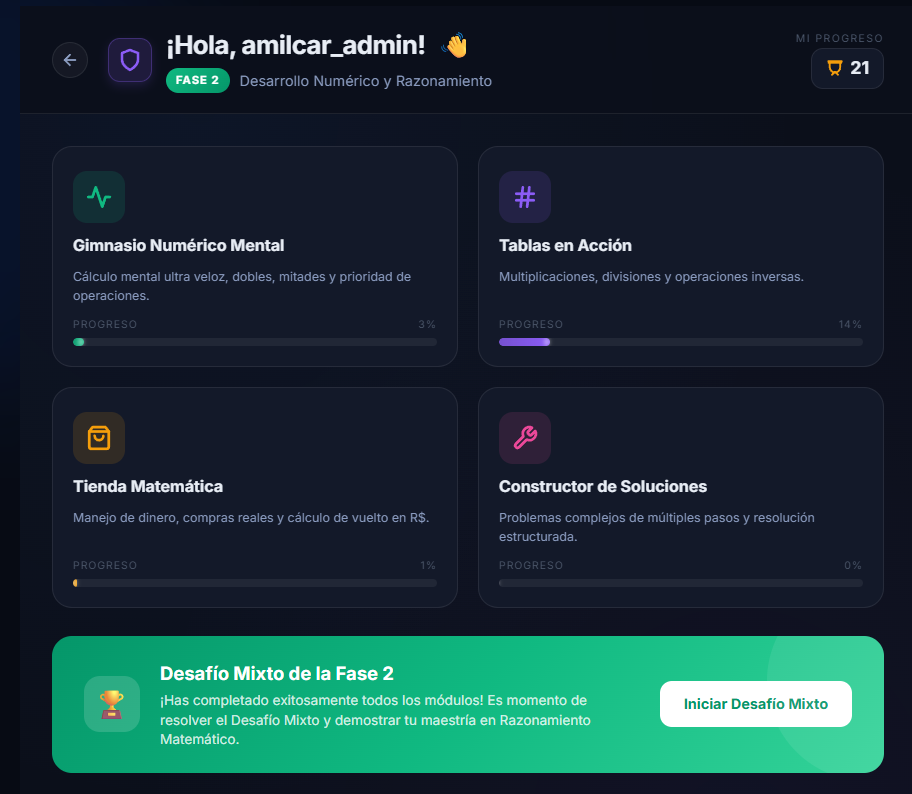
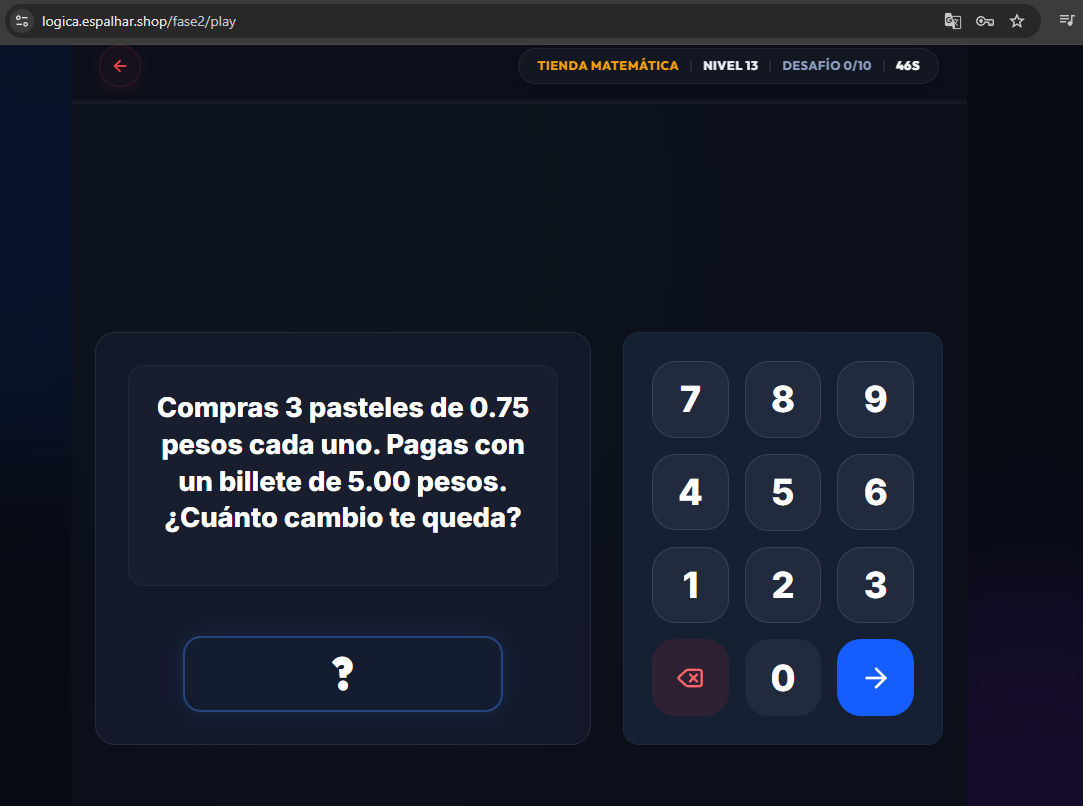
bufg interface

diff --git a/LogicaMath/frontend/components/fase2/Fase2MirrorModal.tsx b/LogicaMath/frontend/components/fase2/Fase2MirrorModal.tsx
@@ -201,28 +201,43 @@ export const Fase2MirrorModal: React.FC<Props> = ({
           </div>
 
           <div className="w-[280px] shrink-0">
-            <div className="grid grid-cols-3 gap-3 p-4 bg-white/5 rounded-[2rem]">
-              {[7, 8, 9, 4, 5, 6, 1, 2, 3, 'back', 0, 'go'].map((key) => {
-                if (key === 'back') return (
-                  <button key="back" onClick={handleBackspace} className="aspect-square rounded-2xl bg-red-500/10 text-red-500 flex items-center justify-center hover:bg-red-500/20 transition-colors">
-                    <Delete size={20} />
-                  </button>
-                );
-                if (key === 'go') return (
-                  <button key="go" onClick={handleSubmit} className="aspect-square rounded-2xl bg-blue-600 text-white flex items-center justify-center hover:bg-blue-700 transition-colors">
-                    <ArrowRight size={20} />
-                  </button>
-                );
-                return (
+            <div className="flex flex-col gap-3 p-4 bg-white/5 rounded-[2rem]">
+              <div className="grid grid-cols-3 gap-3">
+                {[7, 8, 9, 4, 5, 6, 1, 2, 3].map((num) => (
                   <button 
-                    key={key} 
-                    onClick={() => handleKeypadInput(key.toString())}
+                    key={num} 
+                    onClick={() => handleKeypadInput(num.toString())}
                     className="aspect-square rounded-2xl bg-white/10 text-white text-xl font-black flex items-center justify-center hover:bg-white/20 transition-colors"
                   >
-                    {key}
+                    {num}
                   </button>
-                );
-              })}
+                ))}
+                <button 
+                  key="comma" 
+                  onClick={() => handleKeypadInput(',')}
+                  className="aspect-square rounded-2xl bg-white/10 text-white text-xl font-black flex items-center justify-center hover:bg-white/20 transition-colors"
+                >
+                  ,
+                </button>
+                <button 
+                  key="0" 
+                  onClick={() => handleKeypadInput('0')}
+                  className="aspect-square rounded-2xl bg-white/10 text-white text-xl font-black flex items-center justify-center hover:bg-white/20 transition-colors"
+                >
+                  0
+                </button>
+                <button key="back" onClick={handleBackspace} className="aspect-square rounded-2xl bg-red-500/10 text-red-500 flex items-center justify-center hover:bg-red-500/20 transition-colors">
+                  <Delete size={20} />
+                </button>
+              </div>
+              <button 
+                key="go" 
+                onClick={handleSubmit} 
+                disabled={!respuesta.trim() || feedback.visible}
+                className="w-full py-4 rounded-2xl bg-blue-600 text-white flex items-center justify-center font-bold text-lg hover:bg-blue-700 transition-colors disabled:opacity-50"
+              >
+                {feedback.visible ? 'Continuar' : 'Confirmar'} <ArrowRight size={20} className="ml-2" />
+              </button>
             </div>
           </div>
         </div>

diff --git a/LogicaMath/frontend/components/fase2/Fase2GameScreen.tsx b/LogicaMath/frontend/components/fase2/Fase2GameScreen.tsx
@@ -599,13 +599,18 @@ const Fase2GameScreen: React.FC<Props> = ({ moduloId, nivelId, onComplete, onBac
               {/* Teclado Numérico */}
               {(pregunta.tipo_pregunta === 'respuesta_numerica') && (
                 <motion.div variants={keypadVariants} initial="hidden" animate="show" className="hidden md:block w-[320px] shrink-0 z-10">
-                  <div className="grid grid-cols-3 gap-4 p-7 glass-card rounded-[3rem]">
-                    {[7, 8, 9, 4, 5, 6, 1, 2, 3].map((num) => (
-                      <button key={num} onClick={() => handleKeypadInput(num.toString())} disabled={feedback.visible} className="aspect-square rounded-[1.5rem] bg-white/5 border border-white/10 text-4xl font-black text-white">{num}</button>
-                    ))}
-                    <button onClick={handleBackspace} disabled={feedback.visible} className="aspect-square rounded-[1.5rem] bg-red-500/10 text-red-400 flex items-center justify-center"><Delete size={28} /></button>
-                    <button onClick={() => handleKeypadInput('0')} disabled={feedback.visible} className="aspect-square rounded-[1.5rem] bg-white/5 text-4xl font-black text-white">0</button>
-                    <button onClick={handleSubmit} disabled={!feedback.visible && !respuesta.trim()} className="aspect-square rounded-[1.5rem] bg-blue-600 text-white flex items-center justify-center"><ArrowRight size={32} /></button>
+                  <div className="flex flex-col gap-4 p-7 glass-card rounded-[3rem]">
+                    <div className="grid grid-cols-3 gap-4">
+                      {[7, 8, 9, 4, 5, 6, 1, 2, 3].map((num) => (
+                        <button key={num} onClick={() => handleKeypadInput(num.toString())} disabled={feedback.visible} className="aspect-square rounded-[1.5rem] bg-white/5 border border-white/10 text-4xl font-black text-white">{num}</button>
+                      ))}
+                      <button onClick={() => handleKeypadInput(',')} disabled={feedback.visible} className="aspect-square rounded-[1.5rem] bg-white/5 border border-white/10 text-4xl font-black text-white">,</button>
+                      <button onClick={() => handleKeypadInput('0')} disabled={feedback.visible} className="aspect-square rounded-[1.5rem] bg-white/5 border border-white/10 text-4xl font-black text-white">0</button>
+                      <button onClick={handleBackspace} disabled={feedback.visible} className="aspect-square rounded-[1.5rem] bg-red-500/10 text-red-400 flex items-center justify-center"><Delete size={28} /></button>
+                    </div>
+                    <button onClick={handleSubmit} disabled={!feedback.visible && !respuesta.trim()} className="w-full py-4 rounded-[1.5rem] bg-blue-600 text-white flex items-center justify-center font-bold text-xl hover:bg-blue-700 transition-colors disabled:opacity-50">
+                      {feedback.visible ? 'Continuar' : 'Confirmar'} <ArrowRight size={24} className="ml-2"/>
+                    </button>
                   </div>
                 </motion.div>
               )}